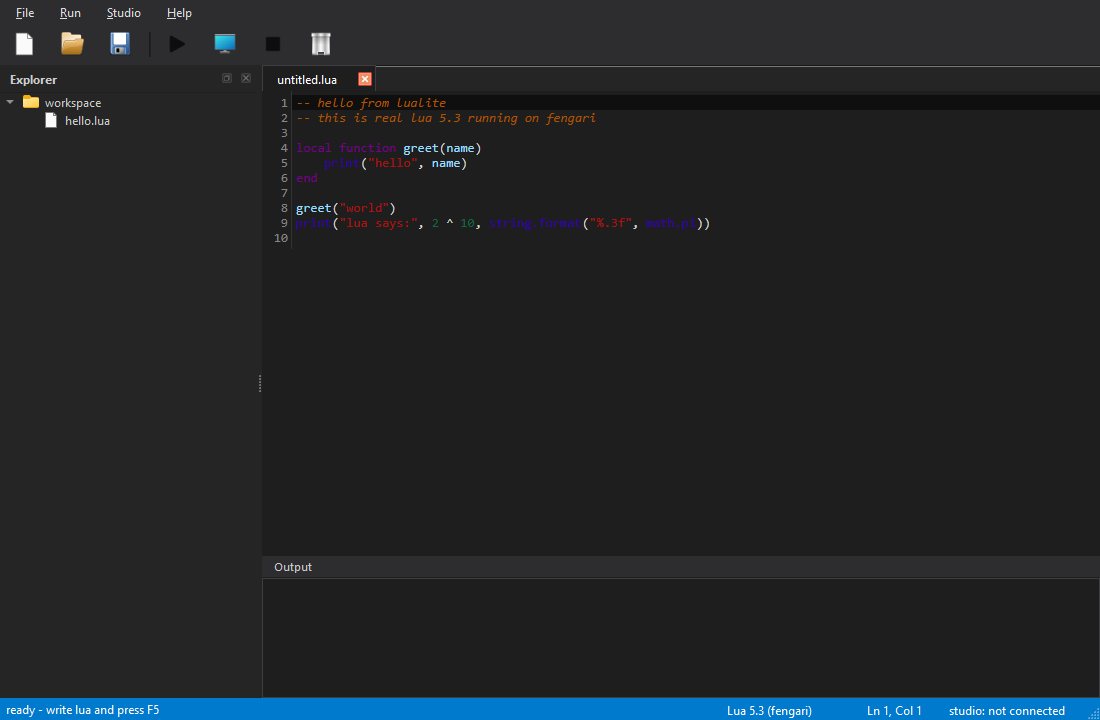
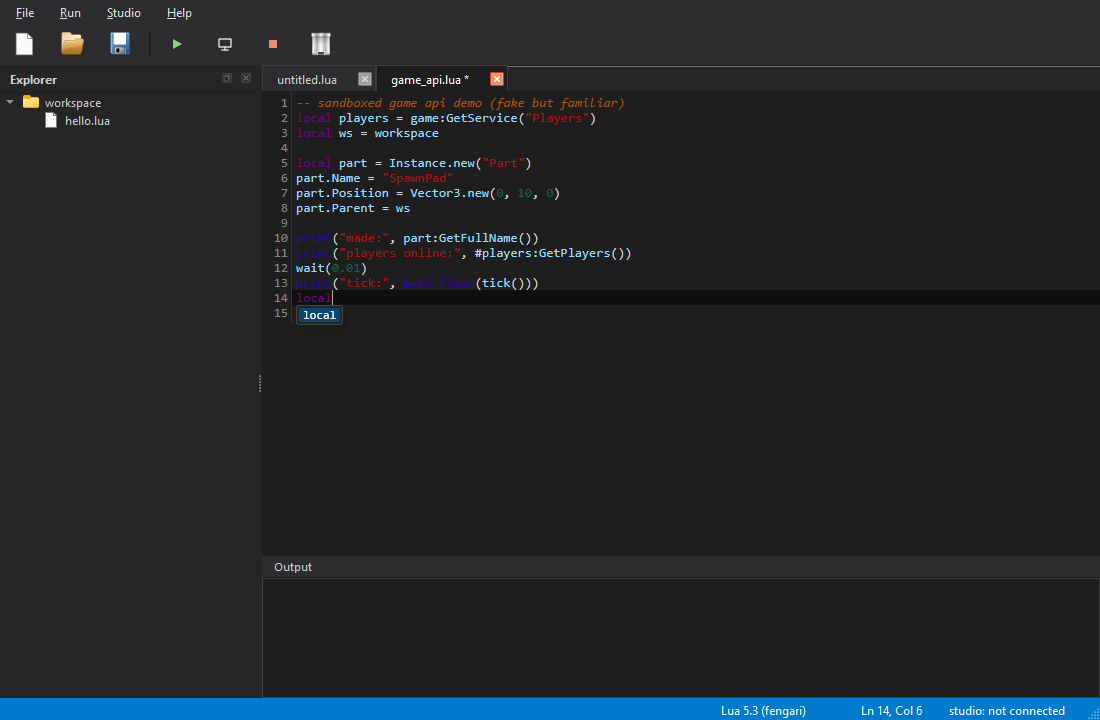
fresh screenshot + readme for context menu and sessions

diff --git a/README.md b/README.md
@@ -24,29 +24,35 @@ first launch downloads codemirror + fengari (~400kb) into
 ## stuff it does
 
 - tabs, open/save .lua, dirty markers, ctrl+f find, ctrl+g goto line,
-  ctrl+/ comment toggle, ctrl+space autocomplete, bracket matching
+  ctrl+/ comment toggle, bracket matching
+- autocomplete pops up on its own while you type (or ctrl+space to force it)
+- live syntax check - broken lines get shaded red with the real lua error
+  in the status bar half a second after you stop typing
 - run button (or F5) executes the script in a real lua 5.3 vm (fengari
   compiled to js). print/warn go to the output box, errors show up red with
   the real lua error message. stop button kills runaway scripts via a
   lua hook that counts instructions
 - file > sample has a few demos (metatables, coroutines, the fake game api)
-- explorer sidebar shows the scripts/ folder, double click to open
+- explorer sidebar shows the scripts/ folder. right click it for
+  new file / new folder / delete / refresh. double click to open
 - sandbox globals: game, workspace, script, Instance.new, Vector3, Enum,
   tick, wait, task. they are stubs but they behave close enough to mess
   around with game-style code
 
 ## roblox studio bridge
 
-this is the fun part. the app runs a tiny http server and studio polls it:
+this is the fun part. the app runs a tiny http server (port 28350) and
+studio polls it:
 
-1. Studio > Install Studio plugin (writes luaengine_bridge.lua into
+1. Studio > Install Studio plugin (writes lualite_bridge.lua into
    %LOCALAPPDATA%\Roblox\Plugins)
-2. restart studio. it announces itself and the status bar shows the place name
-3. Studio > Refresh Studio tree fills the explorer with the place's real
-   file tree (workspace, serverscriptservice, etc). double click a script
-   and its source opens in a tab
+2. restart studio. each open place announces itself with its own id, the
+   status bar shows the place names that connected
+3. Studio > Refresh Studio tree fills the explorer with the places' real
+   file trees, one section per place (workspace, serverscriptservice etc).
+   double click a script and its source opens in a tab
 4. Studio toolbar button (or Run script in Studio) queues the current tab's
-   code for the plugin to run inside studio
+   code for every connected place to run inside studio
 
 honest limits: loadstring inside plugins is restricted so the execute path
 mostly works in playtest/command bar contexts. the tree browsing works
@@ -54,9 +60,14 @@ everywhere though.
 
 ## the mcp-ish thing
 
-POST /mcp on the local port with {"method":"tools/list"} or tools/call with
-studio_tree / studio_execute. its not a full mcp implementation, just the
-tool shape so external stuff can poke at it. good enough for experiments.
+POST /mcp on port 28350 with {"method":"tools/list"} or tools/call with:
+
+- studio_tree - the file trees every connected place sent (per session)
+- studio_execute - queue lua code inside studio
+- editor_open - creates a file in the workspace and opens it in a tab
+
+its not a full mcp implementation, just the tool shape so external stuff can
+poke at it. good enough for experiments.
 
 ## how it works inside
 
@@ -67,7 +78,8 @@ tool shape so external stuff can poke at it. good enough for experiments.
   python pushes code/config via signals
 - lua runs on fengari (lua 5.3 vm compiled to javascript). its actual lua
   semantics - metatables, coroutines, string.format, all of it
-- studio plugin polls /studio/poll every half second and posts results back
+- studio plugins poll /studio/poll with their session id every half second
+  and post results back
 
-everything is one file on purpose (lua_engine.py, ~1000 lines) cause i like
+everything is one file on purpose (lua_engine.py, ~1200 lines) cause i like
 being able to read the whole thing top to bottom.
